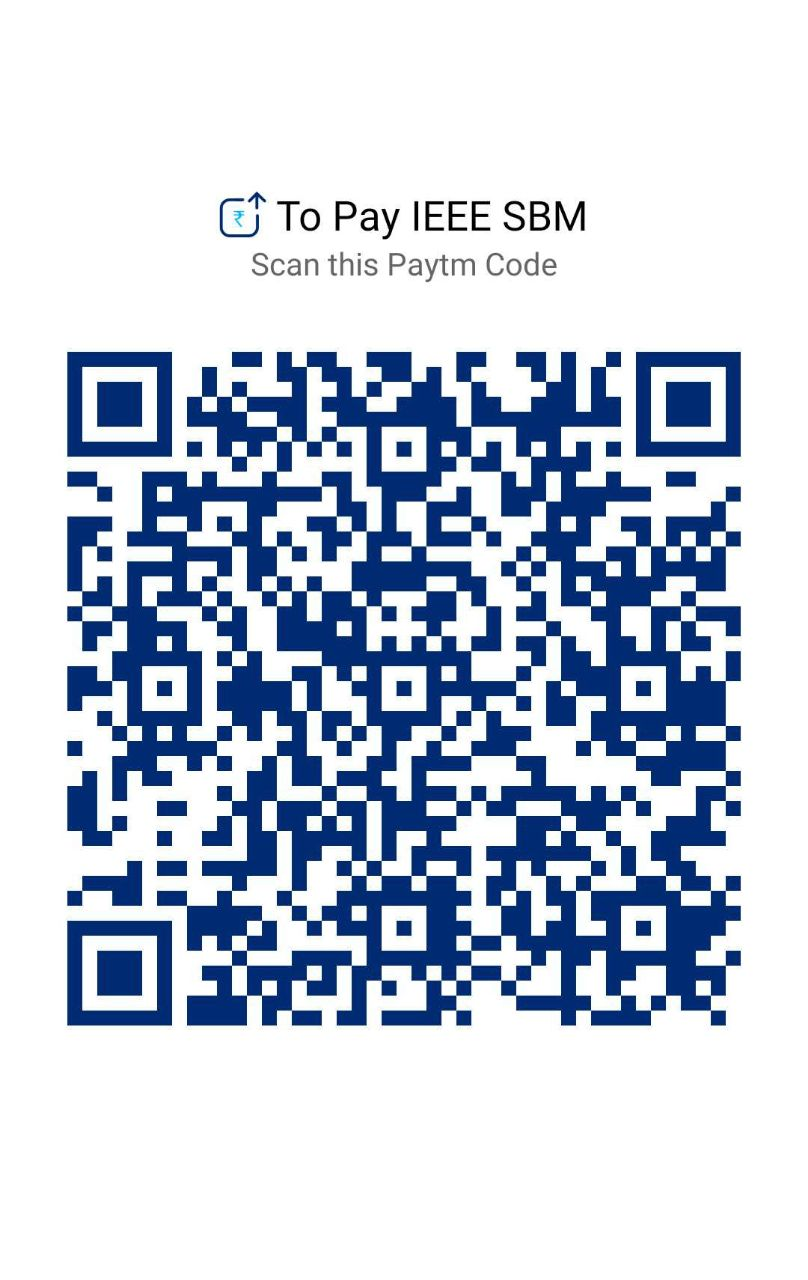
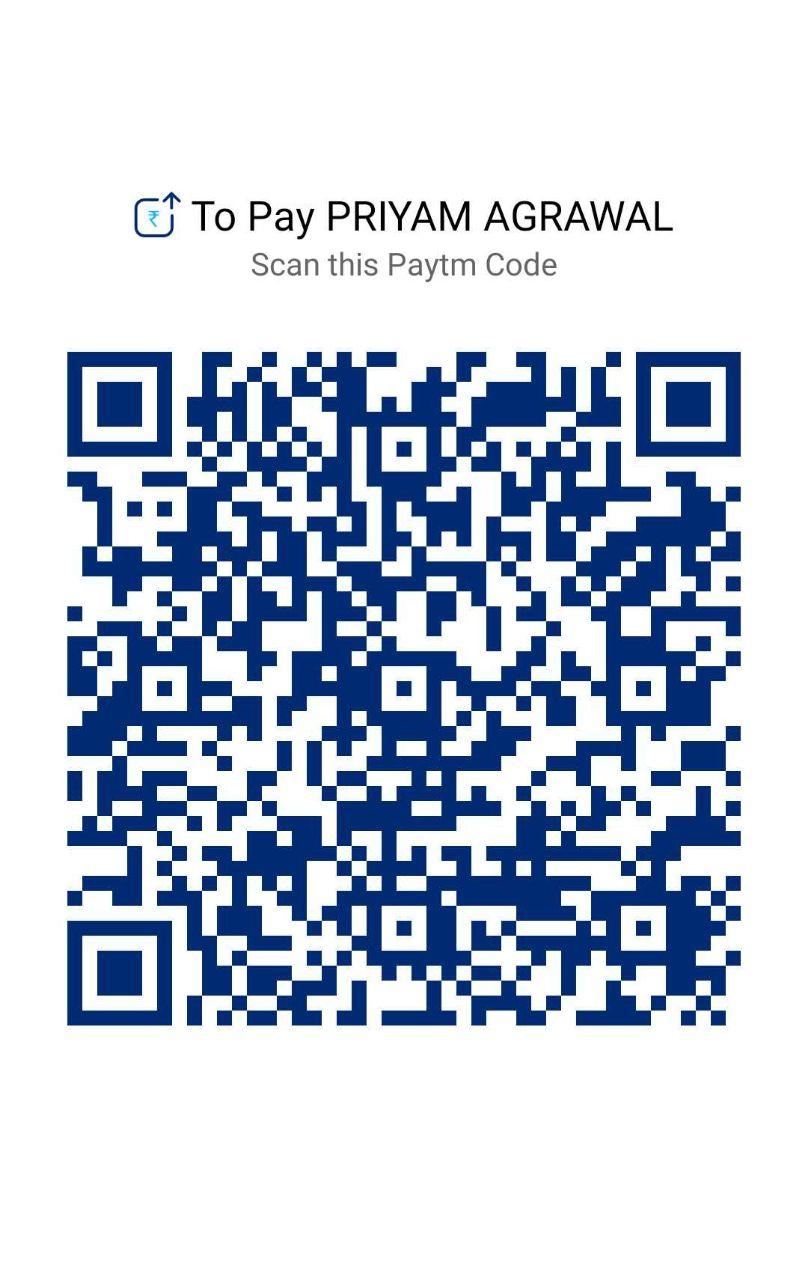
Paytmm

diff --git a/index.html b/index.html
@@ -10,6 +10,7 @@
 
 		<link rel="shortcut icon" href="favicon.ico" type="image/x-icon">
 		<link rel="icon" href="favicon.ico" type="image/x-icon">
+		<script src="https://unpkg.com/sweetalert/dist/sweetalert.min.js"></script>
 
 		<meta charset="utf-8" />
 		<meta name="viewport" content="width=device-width, initial-scale=1, maximum-scale=1" />
@@ -210,8 +211,8 @@ s0.parentNode.insertBefore(s1,s0);
 					<p>We've got you covered. You can pay online and at the event, get the unique Transaction ID you receieve upon payment!</p>
 					<ul class="actions">
 						<li><strong><a href="https://payments.ieeemanipal.com" class="button"  style="text-decoration: none; color: white;">Pay Using Payumoney</a></strong></li>
-		<!--				<li><strong><button type="button" class="button" data-toggle="modal" data-target="#paytm" style="text-decoration: none; color: white;">Pay using Paytm</button</strong></li>
--->					</ul>
+						<li><strong><button type="button" class="button" data-toggle="modal" data-target="#paytm" style="text-decoration: none; color: white;">Pay using Paytm</button</strong></li>
+											</ul>
 				</footer>
 
 				<footer class="major container 75%">
@@ -245,8 +246,7 @@ s0.parentNode.insertBefore(s1,s0);
 			<div id="paytm" class="modal fade" role="dialog">
 			  <div class="modal-dialog">
 
-			    <!-- Modal content-->
-<!--			    <div class="modal-content">
+			    <!-- Modal content-->			    <div class="modal-content">
 			      <div class="modal-header">
 			        <button type="button" class="close" data-dismiss="modal">&times;</button>
 			        <h4 class="modal-title">Scan QR code to pay</h4>
@@ -258,7 +258,6 @@ s0.parentNode.insertBefore(s1,s0);
 			        <button type="button" class="btn btn-default" data-dismiss="modal">Close</button>
 			      </div>
 			    </div>
--->
 			  </div>
 			</div>
 		<!-- Scripts -->

diff --git a/mail_templates/invitation_mane.html b/mail_templates/invitation_mane.html
@@ -570,7 +570,6 @@
                         
                         <td valign="top" class="mcnTextContent" style="padding: 0px 18px 9px; text-align: center;">
                         
-                            <a href="*|ARCHIVE|*" target="_blank">View this email in your browser</a>
                         </td>
                     </tr>
                 </tbody></table>
